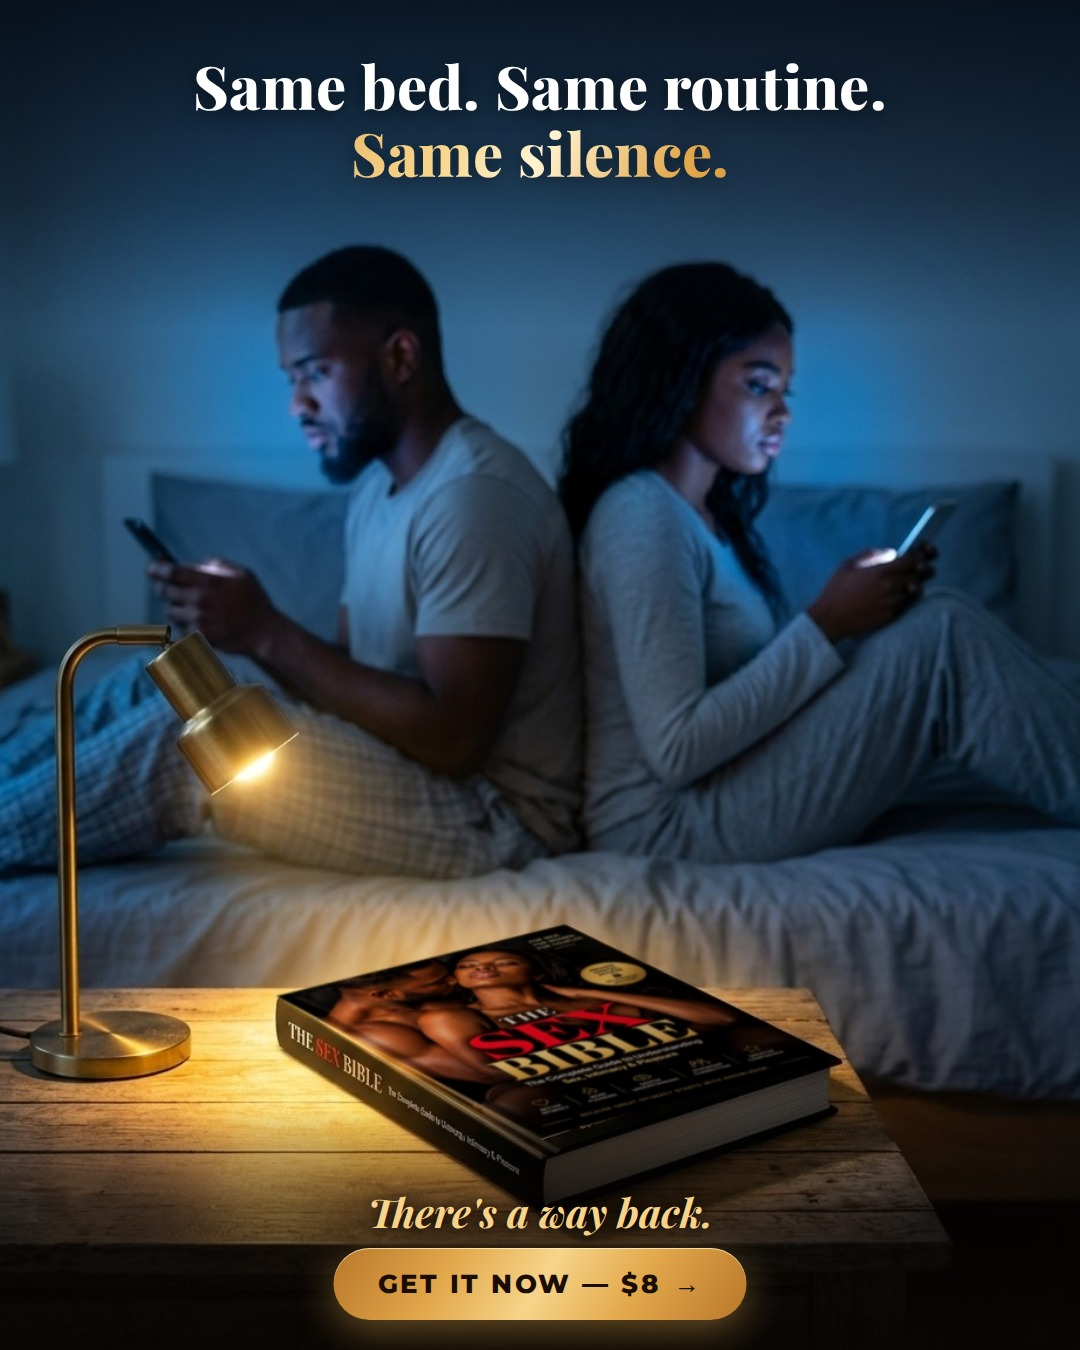
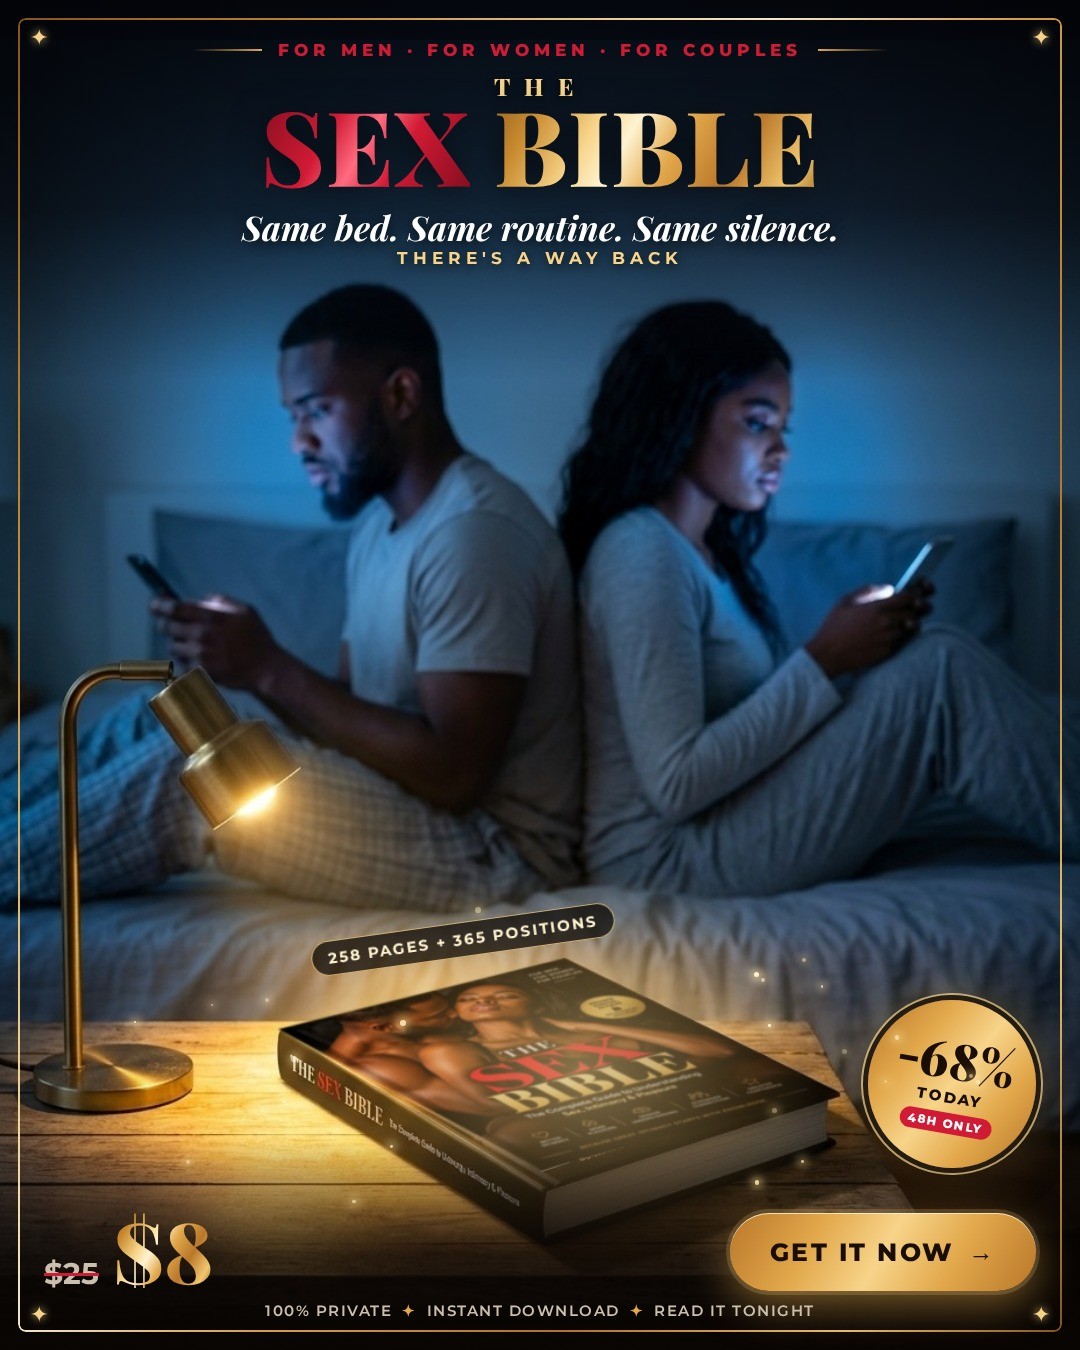
Redesign ad 1 in the sales page style with the book name as headline
The owner found the first version too plain: it now has the gold frame,
"THE SEX BIBLE" as the main title (red SEX, gold BIBLE), the pain hook
underneath, a glow on the book, a -68% seal and the $25 -> $8 price bar.

Claude-Session: https://claude.ai/code/session_017uznBhGzzJS2vVpEwEjB9W

diff --git a/marketing/ads/sources/ad1-pain-overlay.html b/marketing/ads/sources/ad1-pain-overlay.html
@@ -1,16 +1,69 @@
 <!doctype html><html><head><meta charset="utf-8"><link rel="stylesheet" href="fonts.css"><style>
-  html,body{margin:0;width:1080px;height:1350px;overflow:hidden}
-  .ad{position:relative;width:1080px;height:1350px;background:url('v1-cover.jpg') center/cover no-repeat;font-family:'Montserrat',sans-serif}
-  .top{position:absolute;left:0;right:0;top:0;height:330px;background:linear-gradient(180deg,rgba(4,8,18,.82),rgba(4,8,18,.45) 60%,transparent)}
-  .headline{position:absolute;left:60px;right:60px;top:52px;text-align:center;font-family:'Playfair';font-weight:800;font-size:60px;line-height:1.12;color:#fff;letter-spacing:.3px;text-shadow:0 3px 18px rgba(0,0,0,.6)}
-  .headline span{display:block}
-  .headline .last{background:linear-gradient(120deg,#C98B30,#F7D48A 40%,#FFF3D1 50%,#E2A84B 65%,#B9772A);-webkit-background-clip:text;color:transparent;text-shadow:none;filter:drop-shadow(0 3px 10px rgba(0,0,0,.5))}
-  .bottom{position:absolute;left:0;right:0;bottom:0;height:240px;background:linear-gradient(0deg,rgba(8,5,3,.92),rgba(8,5,3,.55) 60%,transparent)}
-  .sub{position:absolute;left:0;right:0;bottom:112px;text-align:center;font-family:'Playfair';font-style:italic;font-weight:700;font-size:40px;color:#F7D48A;text-shadow:0 2px 12px rgba(0,0,0,.8)}
-  .cta{position:absolute;left:50%;bottom:30px;transform:translateX(-50%);display:flex;align-items:center;gap:14px;padding:20px 44px;border-radius:999px;background:linear-gradient(120deg,#B9772A,#E2A84B 28%,#F7D48A 50%,#E2A84B 72%,#B9772A);color:#1a0d04;font-weight:800;font-size:26px;letter-spacing:2.5px;white-space:nowrap;box-shadow:0 10px 40px rgba(226,168,75,.45),inset 0 1px 0 rgba(255,243,209,.7)}
+  :root{--gold:#E2A84B;--gold-light:#F7D48A;--gold-pale:#FFF3D1;--crimson:#D11A35;
+    --metal:linear-gradient(120deg,#8E5A1A 0%,#C98B30 16%,#F7D48A 32%,#FFF3D1 42%,#E2A84B 55%,#B9772A 72%,#F2C76E 88%,#8E5A1A 100%);
+    --btn:linear-gradient(120deg,#B9772A 0%,#E2A84B 28%,#F7D48A 50%,#E2A84B 72%,#B9772A 100%)}
+  html,body{margin:0;width:1080px;height:1350px;overflow:hidden;background:#070b14}
+  .ad{position:relative;width:1080px;height:1350px;overflow:hidden;font-family:'Montserrat',sans-serif;
+    background:url('v1-cover.jpg') center 40px/1080px auto no-repeat, linear-gradient(180deg,#070b14,#13213a 60px)}
+  .shade-top{position:absolute;inset:0 0 auto 0;height:380px;background:linear-gradient(180deg,rgba(5,8,16,.95) 0%,rgba(5,8,16,.7) 55%,transparent)}
+  .shade-bot{position:absolute;inset:auto 0 0 0;height:210px;background:linear-gradient(0deg,rgba(9,5,3,.97) 0%,rgba(9,5,3,.8) 45%,transparent)}
+  .vignette{position:absolute;inset:0;background:radial-gradient(ellipse at 50% 60%,transparent 55%,rgba(0,0,0,.55) 100%)}
+  .glow{position:absolute;left:300px;top:860px;width:560px;height:420px;border-radius:50%;
+    background:radial-gradient(ellipse,rgba(247,212,138,.55),rgba(226,168,75,.2) 45%,transparent 70%);mix-blend-mode:screen}
+  .spark{position:absolute;border-radius:50%;background:#FFE7B0;box-shadow:0 0 10px 3px rgba(247,212,138,.85);mix-blend-mode:screen}
+  .frame{position:absolute;inset:18px;border-radius:8px;border:2px solid transparent;
+    background:linear-gradient(#000,#000) padding-box,var(--metal) border-box;-webkit-mask:linear-gradient(#000 0 0) padding-box exclude,linear-gradient(#000 0 0);mask-composite:exclude;opacity:.95}
+  .corner{position:absolute;color:var(--gold-light);font-size:22px;text-shadow:0 0 10px rgba(247,212,138,.9)}
+  .eyebrow{position:absolute;top:40px;left:0;right:0;display:flex;align-items:center;justify-content:center;gap:16px;
+    color:var(--crimson);font-weight:800;font-size:17px;letter-spacing:5px}
+  .eyebrow::before,.eyebrow::after{content:'';width:70px;height:1.5px;background:linear-gradient(90deg,transparent,var(--gold))}
+  .eyebrow::after{background:linear-gradient(90deg,var(--gold),transparent)}
+  .the{position:absolute;top:70px;left:0;right:0;text-align:center;font-family:'Playfair';font-weight:800;font-size:24px;letter-spacing:14px;color:var(--gold-light);text-shadow:0 2px 10px rgba(0,0,0,.8)}
+  .title{position:absolute;top:92px;left:0;right:0;text-align:center;font-family:'Playfair';font-weight:900;font-size:104px;line-height:1;letter-spacing:1px;filter:drop-shadow(0 6px 18px rgba(0,0,0,.75))}
+  .title .sex{background:linear-gradient(120deg,#7a0c1d 0%,#D11A35 35%,#ff6b80 50%,#D11A35 65%,#7a0c1d 100%);-webkit-background-clip:text;color:transparent}
+  .title .bible{background:var(--metal);-webkit-background-clip:text;color:transparent}
+  .hook{position:absolute;top:204px;left:0;right:0;text-align:center;font-family:'Playfair';font-style:italic;font-weight:700;font-size:34px;color:#fff;text-shadow:0 2px 14px rgba(0,0,0,.9)}
+  .sub{position:absolute;top:248px;left:0;right:0;text-align:center;font-family:'Montserrat';font-weight:700;font-size:17px;letter-spacing:5px;color:var(--gold-light);text-shadow:0 2px 12px rgba(0,0,0,.9)}
+  .seal{position:absolute;left:868px;top:1000px;width:168px;height:168px;border-radius:50%;background:var(--btn);color:#1a0d04;
+    display:flex;flex-direction:column;align-items:center;justify-content:center;transform:rotate(10deg);
+    box-shadow:0 0 0 5px rgba(9,5,3,.85),0 0 0 7px rgba(247,212,138,.7),0 14px 40px rgba(0,0,0,.6),0 0 50px rgba(226,168,75,.5)}
+  .seal b{font-family:'Playfair';font-weight:900;font-size:50px;line-height:1}
+  .seal span{font-weight:800;font-size:15px;letter-spacing:2px;margin-top:4px}
+  .seal i{font-style:normal;font-weight:800;font-size:12px;letter-spacing:1.5px;background:var(--crimson);color:#fff;padding:3px 9px;border-radius:99px;margin-top:6px}
+  .tag{position:absolute;left:310px;top:922px;padding:7px 16px;border:1.5px solid rgba(247,212,138,.8);border-radius:99px;background:rgba(9,5,3,.72);
+    color:var(--gold-pale);font-weight:700;font-size:15px;letter-spacing:2px;backdrop-filter:blur(3px);transform:rotate(-8deg)}
+  .bar{position:absolute;left:44px;right:44px;bottom:58px;display:flex;align-items:center;justify-content:space-between;gap:20px}
+  .price{display:flex;align-items:baseline;gap:14px}
+  .price s{font-size:30px;color:#cbbfae;font-weight:700;text-decoration-color:var(--crimson);text-decoration-thickness:3px}
+  .price b{font-family:'Playfair';font-weight:900;font-size:84px;line-height:.9;background:var(--metal);-webkit-background-clip:text;color:transparent}
+  .cta{display:flex;align-items:center;gap:14px;padding:24px 40px;border-radius:999px;background:var(--btn);color:#1a0d04;font-weight:800;font-size:25px;letter-spacing:2.5px;white-space:nowrap;
+    box-shadow:0 0 0 4px rgba(247,212,138,.18),0 12px 44px rgba(226,168,75,.55),inset 0 1px 0 rgba(255,243,209,.8)}
+  .trust{position:absolute;left:0;right:0;bottom:30px;text-align:center;color:#cbbfae;font-weight:600;font-size:15px;letter-spacing:1.5px}
+  .trust span{color:var(--gold);margin:0 10px}
 </style></head><body><div class="ad">
-  <div class="top"></div><div class="bottom"></div>
-  <div class="headline"><span>Same bed. Same routine.</span><span class="last">Same silence.</span></div>
-  <div class="sub">There's a way back.</div>
-  <div class="cta">GET IT NOW — $8 <span>→</span></div>
-</div></body></html>
+  <div class="shade-top"></div><div class="vignette"></div><div class="glow"></div><div class="shade-bot"></div>
+  <div class="frame"></div>
+  <div class="corner" style="left:30px;top:24px">✦</div><div class="corner" style="right:30px;top:24px">✦</div>
+  <div class="corner" style="left:30px;bottom:22px">✦</div><div class="corner" style="right:30px;bottom:22px">✦</div>
+  <div class="eyebrow">FOR MEN · FOR WOMEN · FOR COUPLES</div>
+  <div class="the">THE</div>
+  <div class="title"><span class="sex">SEX</span> <span class="bible">BIBLE</span></div>
+  <div class="hook">Same bed. Same routine. Same silence.</div>
+  <div class="sub">THERE'S A WAY BACK</div>
+  <div class="tag">258 PAGES + 365 POSITIONS</div>
+  <div class="seal"><b>-68%</b><span>TODAY</span><i>48H ONLY</i></div>
+  <div id="sparks"></div>
+  <div class="bar"><div class="price"><s>$25</s><b>$8</b></div><div class="cta">GET IT NOW <span>→</span></div></div>
+  <div class="trust">100% PRIVATE<span>✦</span>INSTANT DOWNLOAD<span>✦</span>READ IT TONIGHT</div>
+</div>
+<script>
+  let seed = 11; const r = () => (seed = (seed * 16807) % 2147483647) / 2147483647;
+  const box = document.getElementById('sparks');
+  for (let i = 0; i < 26; i++) {
+    const s = document.createElement('div'); s.className = 'spark';
+    const a = r() * Math.PI * 2, d = 160 + r() * 200;
+    const x = 560 + Math.cos(a) * d * 1.3, y = 1080 + Math.sin(a) * d * .55;
+    const z = 2 + r() * 4; s.style.cssText = `left:${x}px;top:${y}px;width:${z}px;height:${z}px;opacity:${.4 + r() * .6}`;
+    if (y < 1225 && y > 860) box.appendChild(s);
+  }
+</script></body></html>

diff --git a/marketing/ads/sources/fonts.css b/marketing/ads/sources/fonts.css
@@ -1,0 +1,8 @@
+@font-face { font-family: 'Playfair'; font-weight: 700; src: url('file:///tmp/claude-0/-home-user-fintrack-frontend/13f22781-d207-57ce-a0d9-a9f13705a284/scratchpad/ads/fonts/node_modules/@fontsource/playfair-display/files/playfair-display-latin-700-normal.woff2'); }
+@font-face { font-family: 'Playfair'; font-weight: 800; src: url('file:///tmp/claude-0/-home-user-fintrack-frontend/13f22781-d207-57ce-a0d9-a9f13705a284/scratchpad/ads/fonts/node_modules/@fontsource/playfair-display/files/playfair-display-latin-800-normal.woff2'); }
+@font-face { font-family: 'Playfair'; font-weight: 900; src: url('file:///tmp/claude-0/-home-user-fintrack-frontend/13f22781-d207-57ce-a0d9-a9f13705a284/scratchpad/ads/fonts/node_modules/@fontsource/playfair-display/files/playfair-display-latin-900-normal.woff2'); }
+@font-face { font-family: 'Playfair'; font-weight: 500; font-style: italic; src: url('file:///tmp/claude-0/-home-user-fintrack-frontend/13f22781-d207-57ce-a0d9-a9f13705a284/scratchpad/ads/fonts/node_modules/@fontsource/playfair-display/files/playfair-display-latin-500-italic.woff2'); }
+@font-face { font-family: 'Playfair'; font-weight: 700; font-style: italic; src: url('file:///tmp/claude-0/-home-user-fintrack-frontend/13f22781-d207-57ce-a0d9-a9f13705a284/scratchpad/ads/fonts/node_modules/@fontsource/playfair-display/files/playfair-display-latin-700-italic.woff2'); }
+@font-face { font-family: 'Montserrat'; font-weight: 600; src: url('file:///tmp/claude-0/-home-user-fintrack-frontend/13f22781-d207-57ce-a0d9-a9f13705a284/scratchpad/ads/fonts/node_modules/@fontsource/montserrat/files/montserrat-latin-600-normal.woff2'); }
+@font-face { font-family: 'Montserrat'; font-weight: 700; src: url('file:///tmp/claude-0/-home-user-fintrack-frontend/13f22781-d207-57ce-a0d9-a9f13705a284/scratchpad/ads/fonts/node_modules/@fontsource/montserrat/files/montserrat-latin-700-normal.woff2'); }
+@font-face { font-family: 'Montserrat'; font-weight: 800; src: url('file:///tmp/claude-0/-home-user-fintrack-frontend/13f22781-d207-57ce-a0d9-a9f13705a284/scratchpad/ads/fonts/node_modules/@fontsource/montserrat/files/montserrat-latin-800-normal.woff2'); }
